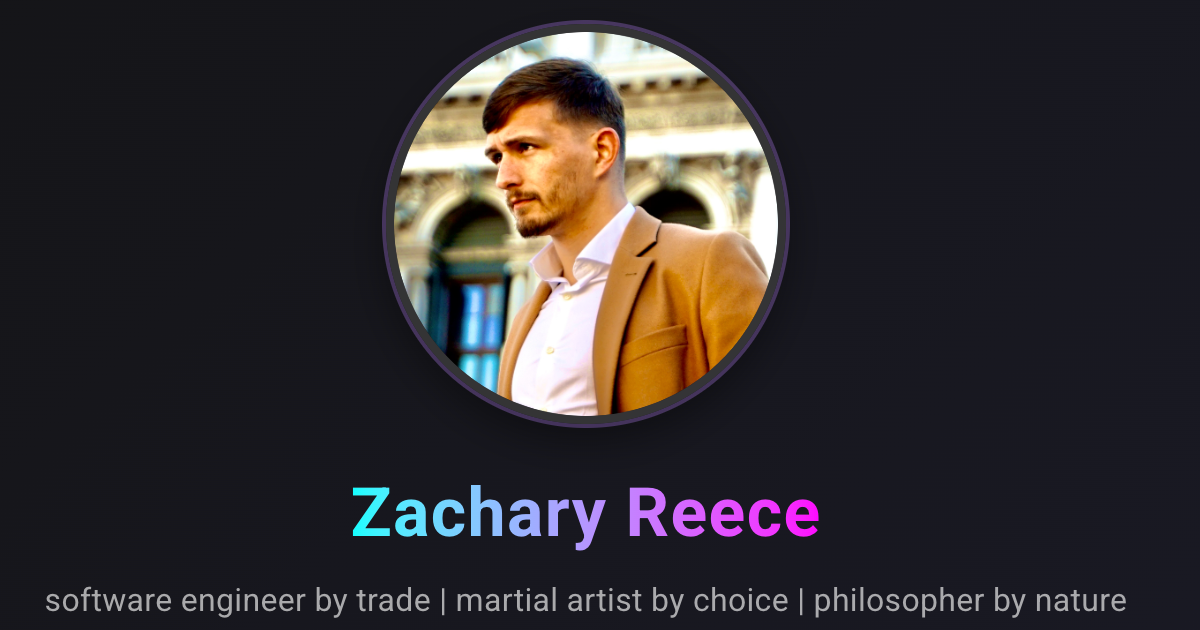
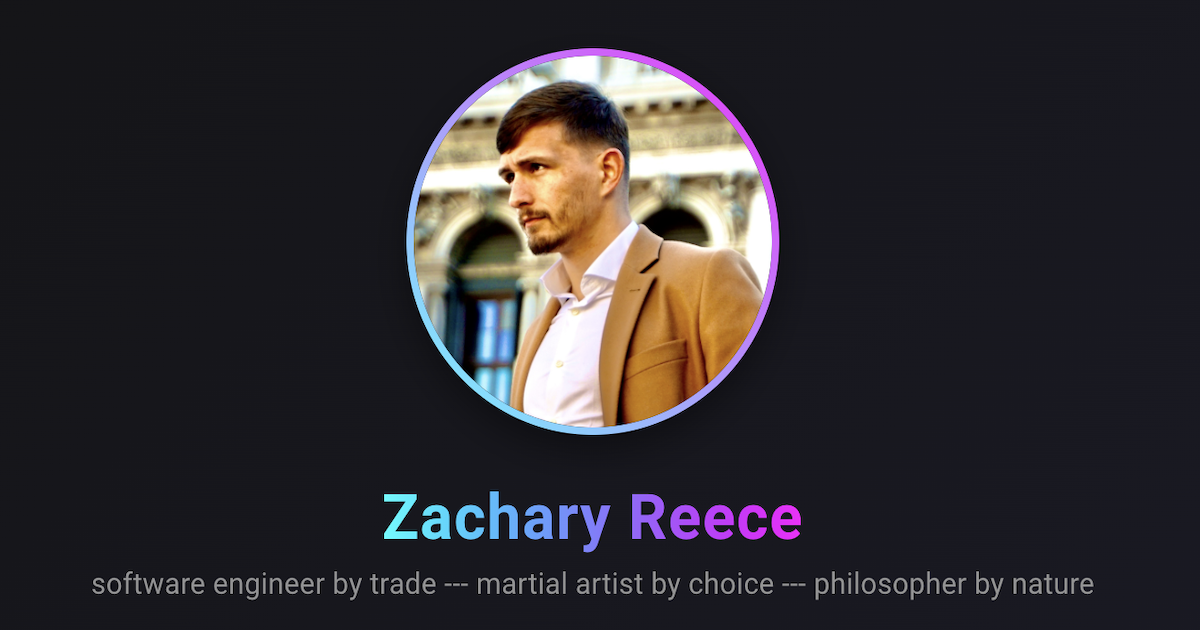
updated og image to show on all pages

Changed region(s): [[0.3083, 0.0302, 0.6783, 0.6937], [0.0308, 0.9048, 0.9558, 0.9952], [0.2775, 0.754, 0.6783, 0.8746]]

diff --git a/src/app/layout.tsx b/src/app/layout.tsx
@@ -1,59 +1,41 @@
-"use client";
-
 import React from 'react';
-import { AppRouterCacheProvider } from '@mui/material-nextjs/v15-appRouter';
-import { createTheme, ThemeProvider } from '@mui/material/styles';
-import CssBaseline from '@mui/material/CssBaseline';
-import InitColorSchemeScript from '@mui/material/InitColorSchemeScript';
+import { Metadata } from 'next';
 
-const theme = createTheme({
-  palette: {
-    mode: 'dark',
-    primary: {
-      main: '#BB86FC',
-    },
-    secondary: {
-      main: '#03DAC6',
-    },
-    background: {
-      default: '#121212',
-      paper: '#1E1E1E',
-    },
-    text: {
-      primary: '#E1E1E1',
-      secondary: '#A0A0A0',
-    },
-  },
-  typography: {
-    fontFamily: '"Inter", "Roboto", "Helvetica", "Arial", sans-serif',
-  },
-  shape: {
-    borderRadius: 3,
-  },
-  components: {
-    MuiCssBaseline: {
-      styleOverrides: {
-        body: {
-          background: 'linear-gradient(135deg, #121212 0%, #1E1E2E 100%)',
-          backgroundAttachment: 'fixed',
-        },
+export const metadata: Metadata = {
+  title: 'Zachary Reece',
+  description: 'software engineer by trade | martial artist by choice | philosopher by nature',
+  openGraph: {
+    title: 'Zachary Reece',
+    description: 'software engineer by trade | martial artist by choice | philosopher by nature',
+    url: 'https://zacharyreece.dev',
+    siteName: 'Zachary Reece',
+    images: [
+      {
+        url: 'https://zacharyreece.dev/og-image.png', 
+        width: 1200,
+        height: 630,
+        alt: 'Zachary Reece',
       },
-    },
+    ],
+    locale: 'en_US',
+    type: 'website',
   },
-});
+  twitter: {
+    card: 'summary_large_image',
+    title: 'Zachary Reece',
+    description: 'software engineer by trade | martial artist by choice | philosopher by nature',
+    creator: '@zreecespieces',
+    images: ['https://zacharyreece.dev/og-image.png'],
+  },
+};
+
+import { ClientRootLayout } from '../components/ClientRootLayout';
 
 export default function RootLayout(props: { children: React.ReactNode }) {
   return (
     <html lang="en" suppressHydrationWarning style={{ backgroundColor: '#121212' }}>
       <body>
-        <InitColorSchemeScript attribute="class" />
-        <AppRouterCacheProvider options={{ enableCssLayer: true }}>
-          <ThemeProvider theme={theme}>
-            {/* CssBaseline kickstart an elegant, consistent, and simple baseline to build upon. */}
-            <CssBaseline />
-            {props.children}
-          </ThemeProvider>
-        </AppRouterCacheProvider>
+        <ClientRootLayout>{props.children}</ClientRootLayout>
       </body>
     </html>
   );

diff --git a/src/components/ClientRootLayout.tsx b/src/components/ClientRootLayout.tsx
@@ -1,0 +1,58 @@
+"use client";
+
+import React from 'react';
+import { AppRouterCacheProvider } from '@mui/material-nextjs/v15-appRouter';
+import { createTheme, ThemeProvider } from '@mui/material/styles';
+import CssBaseline from '@mui/material/CssBaseline';
+import InitColorSchemeScript from '@mui/material/InitColorSchemeScript';
+
+const theme = createTheme({
+  palette: {
+    mode: 'dark',
+    primary: {
+      main: '#BB86FC',
+    },
+    secondary: {
+      main: '#03DAC6',
+    },
+    background: {
+      default: '#121212',
+      paper: '#1E1E1E',
+    },
+    text: {
+      primary: '#E1E1E1',
+      secondary: '#A0A0A0',
+    },
+  },
+  typography: {
+    fontFamily: '"Inter", "Roboto", "Helvetica", "Arial", sans-serif',
+  },
+  shape: {
+    borderRadius: 3,
+  },
+  components: {
+    MuiCssBaseline: {
+      styleOverrides: {
+        body: {
+          background: 'linear-gradient(135deg, #121212 0%, #1E1E2E 100%)',
+          backgroundAttachment: 'fixed',
+        },
+      },
+    },
+  },
+});
+
+export function ClientRootLayout({ children }: { children: React.ReactNode }) {
+  return (
+    <>
+      <InitColorSchemeScript attribute="class" />
+      <AppRouterCacheProvider options={{ enableCssLayer: true }}>
+        <ThemeProvider theme={theme}>
+          {/* CssBaseline kickstart an elegant, consistent, and simple baseline to build upon. */}
+          <CssBaseline />
+          {children}
+        </ThemeProvider>
+      </AppRouterCacheProvider>
+    </>
+  );
+}
